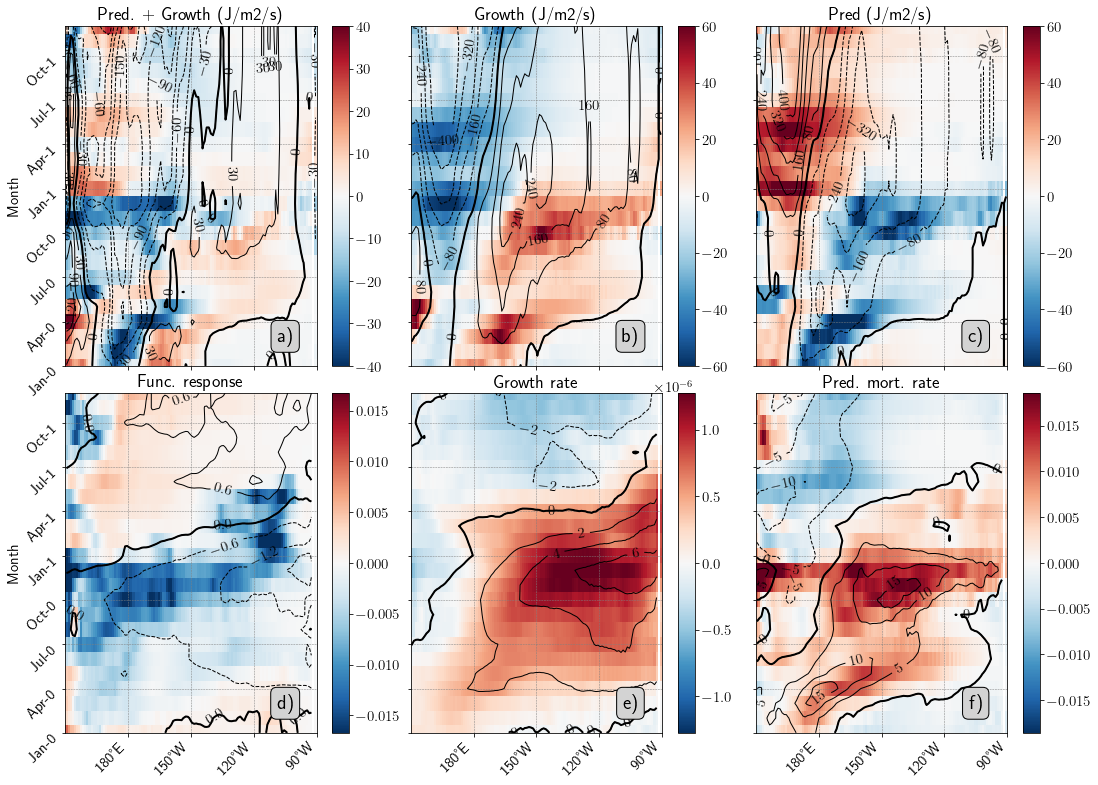
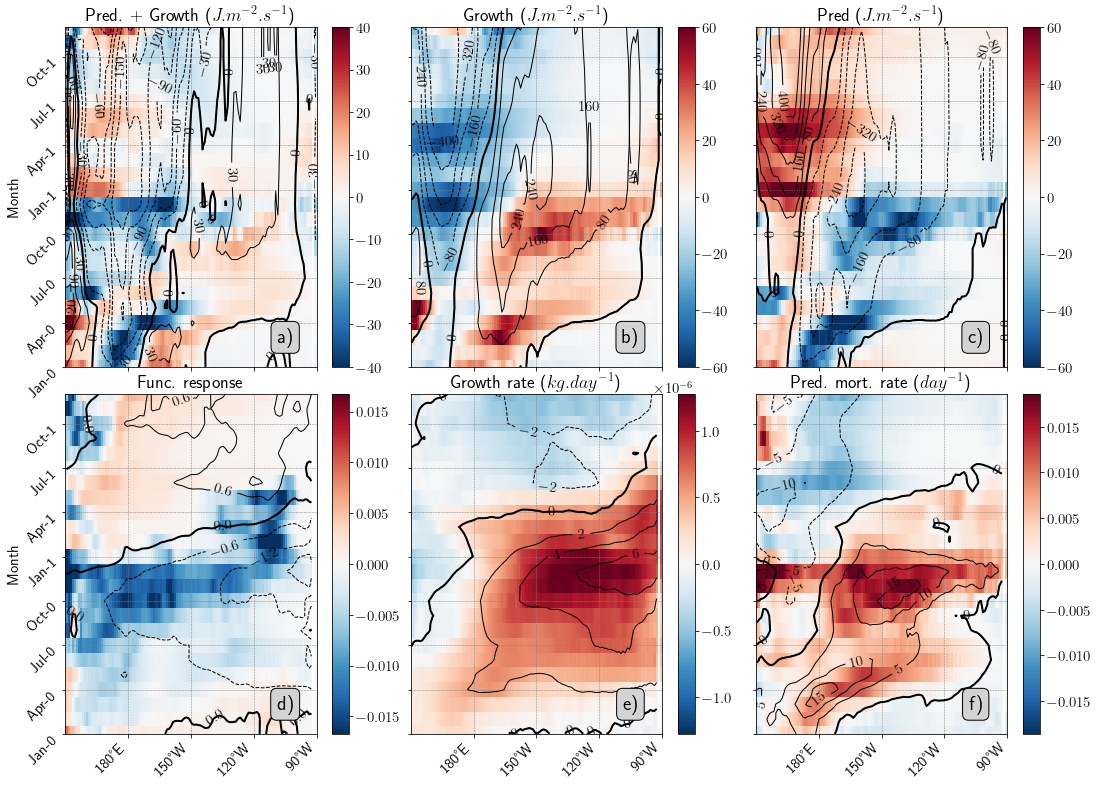
Update figures (add units)

diff --git a/scripts/new-97/fig8.py b/scripts/new-97/fig8.py
@@ -203,11 +203,11 @@ toplot = (wstep * (growth + pred)).sel(l=l, method='nearest')
 cs, cl = plot(ax, toplot.values, 1, clim=ccc, contour=0)
 cb = plt.colorbar(cs, )
 ax.text(lon1, time1, letters[cpt - 1], **textprop)
-ax.set_title('Pred. + Growth (J/m2/s)')
+ax.set_title('Pred. + Growth ($J.m^{-2}.s^{-1}$)')
 cl = ax.contour(lon, time + 1, toplot.cumsum(dim='time'), colors='k', levels=np.linspace(-150, 150, 11), linewidths=1)
 ax.contour(lon, time + 1, toplot.cumsum(dim='time'), colors='k', levels=[0], linewidths=2)
 plt.clabel(cl)
-set_ticks(ax, cpt)    
+set_ticks(ax, cpt)
 
 ccc = 60
 cpt += 1 
@@ -216,7 +216,7 @@ toplot = (wstep * (growth)).sel(l=l, method='nearest')
 cs, cl = plot(ax, toplot.values, 1, clim=ccc, contour=0)
 cb = plt.colorbar(cs, )
 ax.text(lon1, time1, letters[cpt - 1], **textprop)
-ax.set_title('Growth (J/m2/s)')
+ax.set_title('Growth ($J.m^{-2}.s^{-1}$)')
 cl = ax.contour(lon, time + 1, toplot.cumsum(dim='time'), colors='k', levels=np.linspace(-400, 400, 11), linewidths=1)
 ax.contour(lon, time + 1, toplot.cumsum(dim='time'), colors='k', levels=[0], linewidths=2)
 plt.clabel(cl)
@@ -228,7 +228,7 @@ toplot = (wstep * (pred)).sel(l=l, method='nearest')
 cs, cl = plot(ax, toplot.values, 1, clim=ccc, contour=False)
 cb = plt.colorbar(cs, )
 ax.text(lon1, time1, letters[cpt - 1], **textprop)
-ax.set_title('Pred (J/m2/s)')
+ax.set_title('Pred ($J.m^{-2}.s^{-1}$)')
 cl = ax.contour(lon, time + 1, toplot.cumsum(dim='time'), colors='k', levels=np.linspace(-400, 400, 11), linewidths=1)
 ax.contour(lon, time + 1, toplot.cumsum(dim='time'), colors='k', levels=[0], linewidths=2)
 plt.clabel(cl)
@@ -253,7 +253,7 @@ toplot = (gamma1).sel(l=l, method='nearest')
 cs, cl = plot(ax, toplot.values, 1, clim=None, contour=False)
 cb = plt.colorbar(cs, )
 ax.text(lon1, time1, letters[cpt - 1], **textprop)
-ax.set_title('Growth rate')
+ax.set_title('Growth rate ($kg.day^{-1}$)')
 toplot = thetao
 cl = ax.contour(lon, time + 1, toplot, 6, colors='k', linewidths=1)
 ax.contour(lon, time + 1, toplot, colors='k', levels=[0], linewidths=2)
@@ -266,7 +266,7 @@ toplot = (mort).sel(l=l, method='nearest')
 cs, cl = plot(ax, toplot.values, 1, clim=None, contour=False)
 cb = plt.colorbar(cs, )
 ax.text(lon1, time1, letters[cpt - 1], **textprop)
-ax.set_title('Pred. mort. rate')
+ax.set_title('Pred. mort. rate ($day^{-1}$)')
 toplot = (oope * wstep).sel(l=20, method='nearest')
 cl = ax.contour(lon, time + 1, toplot, 6, colors='k', linewidths=1)
 ax.contour(lon, time + 1, toplot, colors='k', levels=[0], linewidths=2)

diff --git a/scripts/new-97/fig9.py b/scripts/new-97/fig9.py
@@ -202,7 +202,7 @@ toplot = (wstep * (growth + pred)).sel(l=l, method='nearest')
 cs, cl = plot(ax, toplot.values, 1, clim=ccc, contour=0)
 cb = plt.colorbar(cs, )
 ax.text(lon1, time1, letters[cpt], **textprop)
-ax.set_title('Pred. + Growth (J/m2/s)')
+ax.set_title('Pred. + Growth ($J.m^{-2}.s^{-1}$)')
 cl = ax.contour(lon, time + 1, toplot.cumsum(dim='time'), colors='k', levels=np.linspace(-15, 15, 11), linewidths=1)
 ax.contour(lon, time + 1, toplot.cumsum(dim='time'), colors='k', levels=[0], linewidths=2)
 plt.clabel(cl)
@@ -215,7 +215,7 @@ toplot = (wstep * (growth)).sel(l=l, method='nearest')
 cs, cl = plot(ax, toplot.values, 1, clim=ccc, contour=0)
 cb = plt.colorbar(cs, )
 ax.text(lon1, time1, letters[cpt], **textprop)
-ax.set_title('Growth (J/m2/s)')
+ax.set_title('Growth ($J.m^{-2}.s^{-1}$)')
 cl = ax.contour(lon, time + 1, toplot.cumsum(dim='time'), colors='k', levels=np.linspace(-15, 15, 11), linewidths=1)
 ax.contour(lon, time + 1, toplot.cumsum(dim='time'), colors='k', levels=[0], linewidths=2)
 plt.clabel(cl)
@@ -227,7 +227,7 @@ toplot = (wstep * (pred)).sel(l=l, method='nearest')
 cs, cl = plot(ax, toplot.values, 1, clim=ccc, contour=False)
 cb = plt.colorbar(cs, )
 ax.text(lon1, time1, letters[cpt], **textprop)
-ax.set_title('Pred (J/m2/s)')
+ax.set_title('Pred ($J.m^{-2}.s^{-1}$)')
 cl = ax.contour(lon, time + 1, toplot.cumsum(dim='time'), colors='k', levels=np.linspace(-15, 15, 11), linewidths=1)
 ax.contour(lon, time + 1, toplot.cumsum(dim='time'), colors='k', levels=[0], linewidths=2)
 plt.clabel(cl)
@@ -252,7 +252,7 @@ toplot = (gamma1).sel(l=l, method='nearest')
 cs, cl = plot(ax, toplot.values, 1, clim=None, contour=False)
 cb = plt.colorbar(cs, )
 ax.text(lon1, time1, letters[cpt], **textprop)
-ax.set_title('Growth rate')
+ax.set_title('Growth rate ($kg.day^{-1}$)')
 toplot = thetao
 cl = ax.contour(lon, time + 1, toplot, 6, colors='k', linewidths=1)
 ax.contour(lon, time + 1, toplot, colors='k', levels=[0], linewidths=2)
@@ -265,7 +265,7 @@ toplot = (mort).sel(l=l, method='nearest')
 cs, cl = plot(ax, toplot.values, 1, clim=None, contour=False)
 cb = plt.colorbar(cs, )
 ax.text(lon1, time1, letters[cpt], **textprop)
-ax.set_title('Pred. mort. rate')
+ax.set_title('Pred. mort. rate ($day^{-1}$)')
 toplot = (oope * wstep).sel(l=90, method='nearest')
 cl = ax.contour(lon, time + 1, toplot, 6, colors='k', linewidths=1)
 ax.contour(lon, time + 1, toplot, colors='k', levels=[0], linewidths=2)
